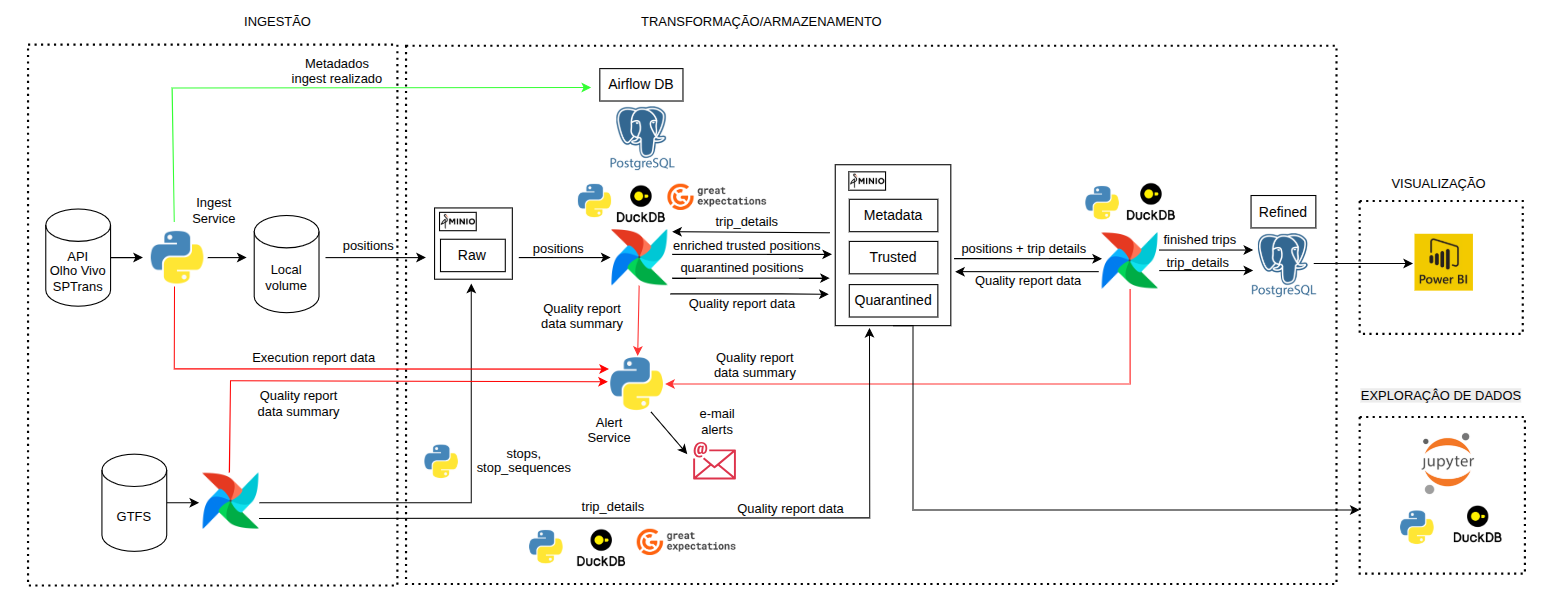
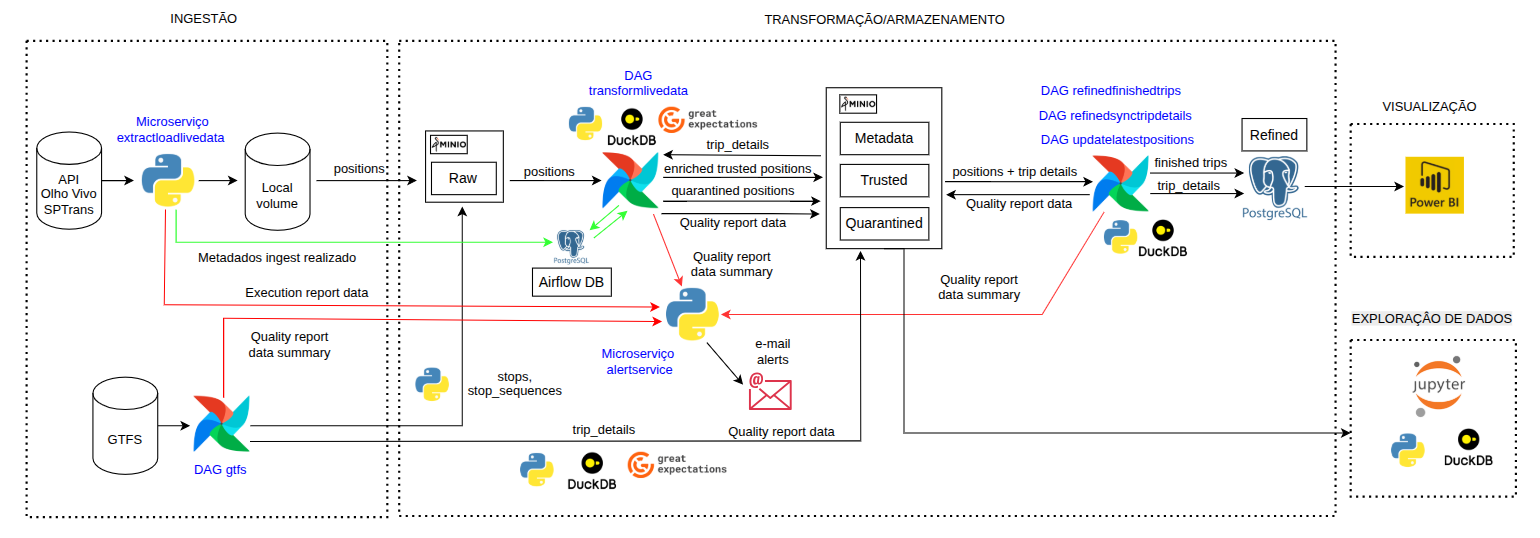
feat(refinedfinishedtrips): moved pipeline invokation to airlfow dataset emitted by transformlivedata

diff --git a/airflow/dags/refinedfinishedtrips-v6.py b/airflow/dags/refinedfinishedtrips-v6.py
@@ -1,13 +1,14 @@
-import logging
+from refinedfinishedtrips.extract_trips import (
+    extract_trips_for_all_Lines_and_vehicles,
+)
 import os
+import logging
 
-from transformlivedata.transformlivedata import load_transform_save_positions
-
-PIPELINE_NAME = "transformlivedata"
+PIPELINE_NAME = "refinedfinishedtrips"
 _IN_AIRFLOW = bool(os.getenv("AIRFLOW_HOME"))
 
 if _IN_AIRFLOW:
-    VERSION = 9
+    VERSION = 6
     DAG_NAME = f"{PIPELINE_NAME}-v{VERSION}"
 else:
     from logging.handlers import RotatingFileHandler
@@ -25,50 +26,41 @@ else:
 logger = logging.getLogger(__name__)
 
 
-def transform_positions(logical_date_string: str) -> None:
-    load_transform_save_positions(PIPELINE_NAME, logical_date_string)
+def extract_trips():
+    extract_trips_for_all_Lines_and_vehicles(PIPELINE_NAME)
 
 
 if _IN_AIRFLOW:
-    from airflow import DAG
+    from airflow import DAG, Dataset
     from airflow.operators.python import PythonOperator
     from airflow.utils.dates import days_ago
 
+    TRANSFORMED_POSITIONS_READY_SIGNAL = Dataset("sptrans://trusted/transformed_positions_ready")
     default_args = {
         "owner": "airflow",
         "depends_on_past": False,
-        "start_date": days_ago(20),
+        "start_date": days_ago(0),
         "max_active_runs": 1,
         "email_on_failure": False,
         "email_on_retry": False,
-        "retries": 0,
+        "retries": 3,
     }
-
-    def _transform_positions_task(**context):
-        logical_date = context["dag_run"].logical_date
-        logical_date_string = logical_date.isoformat()
-        transform_positions(logical_date_string)
 
     with DAG(
         DAG_NAME,
         default_args=default_args,
-        description="Load data from raw layer, process it, and store it in trusted layer",
-        schedule=None,
+        description="Calculate finished trips for all lines and vehicles",
+        schedule=[TRANSFORMED_POSITIONS_READY_SIGNAL],
         catchup=False,
-        max_active_runs=1,
         tags=["sptrans"],
     ) as dag:
-        transform_positions_task = PythonOperator(
-            task_id="transform_positions",
-            python_callable=_transform_positions_task,
+        extract_trips_task = PythonOperator(
+            task_id="extract_trips", python_callable=extract_trips
         )
-
-        transform_positions_task
+        extract_trips_task
 else:
     def main():
-        logical_date_string = "2026-04-27T15:14:00+00:00"
-        result = transform_positions(logical_date_string)
-        logger.info(f"Pipeline result: {result}")
+        extract_trips()
 
     if __name__ == "__main__":
         main()

diff --git a/dags-dev/refinedfinishedtrips-v6.py b/dags-dev/refinedfinishedtrips-v6.py
@@ -1,13 +1,14 @@
-import logging
+from refinedfinishedtrips.extract_trips import (
+    extract_trips_for_all_Lines_and_vehicles,
+)
 import os
+import logging
 
-from transformlivedata.transformlivedata import load_transform_save_positions
-
-PIPELINE_NAME = "transformlivedata"
+PIPELINE_NAME = "refinedfinishedtrips"
 _IN_AIRFLOW = bool(os.getenv("AIRFLOW_HOME"))
 
 if _IN_AIRFLOW:
-    VERSION = 9
+    VERSION = 6
     DAG_NAME = f"{PIPELINE_NAME}-v{VERSION}"
 else:
     from logging.handlers import RotatingFileHandler
@@ -25,50 +26,41 @@ else:
 logger = logging.getLogger(__name__)
 
 
-def transform_positions(logical_date_string: str) -> None:
-    load_transform_save_positions(PIPELINE_NAME, logical_date_string)
+def extract_trips():
+    extract_trips_for_all_Lines_and_vehicles(PIPELINE_NAME)
 
 
 if _IN_AIRFLOW:
-    from airflow import DAG
+    from airflow import DAG, Dataset
     from airflow.operators.python import PythonOperator
     from airflow.utils.dates import days_ago
 
+    TRANSFORMED_POSITIONS_READY_SIGNAL = Dataset("sptrans://trusted/transformed_positions_ready")
     default_args = {
         "owner": "airflow",
         "depends_on_past": False,
-        "start_date": days_ago(20),
+        "start_date": days_ago(0),
         "max_active_runs": 1,
         "email_on_failure": False,
         "email_on_retry": False,
-        "retries": 0,
+        "retries": 3,
     }
-
-    def _transform_positions_task(**context):
-        logical_date = context["dag_run"].logical_date
-        logical_date_string = logical_date.isoformat()
-        transform_positions(logical_date_string)
 
     with DAG(
         DAG_NAME,
         default_args=default_args,
-        description="Load data from raw layer, process it, and store it in trusted layer",
-        schedule=None,
+        description="Calculate finished trips for all lines and vehicles",
+        schedule=[TRANSFORMED_POSITIONS_READY_SIGNAL],
         catchup=False,
-        max_active_runs=1,
         tags=["sptrans"],
     ) as dag:
-        transform_positions_task = PythonOperator(
-            task_id="transform_positions",
-            python_callable=_transform_positions_task,
+        extract_trips_task = PythonOperator(
+            task_id="extract_trips", python_callable=extract_trips
         )
-
-        transform_positions_task
+        extract_trips_task
 else:
     def main():
-        logical_date_string = "2026-04-27T15:14:00+00:00"
-        result = transform_positions(logical_date_string)
-        logger.info(f"Pipeline result: {result}")
+        extract_trips()
 
     if __name__ == "__main__":
         main()

diff --git a/README.md b/README.md
@@ -37,6 +37,7 @@ Detalhes sobre as DAGS:
         - Verificação de qualidade da extração de viagens (zero trips e low trip count) baseada na janela efetiva de extração
         - Resultado da persistência com contagem de viagens adicionadas e de viagens que já haviam sido salvas anteriormente
         - Relatório de qualidade consolidado com status das três fases ao final de cada execução, persistido no bucket de metadata e enviado ao `alertservice` via webhook
+        - A partir da versão 6 desta pipeline, a DAG no Airflow deixa de depender de agendamento por cron e passa a ser disparada por um Airflow Dataset emitido pelo pipeline `transformlivedata`, o que maximiza o freshness das viagens finalizadas calculadas na camada refined, que passam a ser atualizadas logo após a publicação bem sucedida dos dados transformados, e simplifica a manutenção ao remover o acoplamento entre cron schedules upstream e downstream.
         ![Para mais informações:](./dags-dev/refinedfinishedtrips/README.md)
     - DAG refinedsynctripdetails: processo de carga dos detalhes de viagens canônicos da camada trusted para a camada refined, com adaptação leve para consumo da camada de visualização, especialmente em linhas circulares. Esta DAG é iniciada assim que a DAG gtfs é finalizada com sucesso através do uso do mecanismo datasets do Airflow. ![Para mais informações:](./dags-dev/refinedsynctripdetails/README.md)
     - DAG updatelatestpositions: processo de transformação para criação dos dados de última posição de cada ônibus na camada refined a partir dos dados da camada trusted. A partir da versão 4 deste pipeline, a DAG no Airflow deixa de depender de agendamento por cron e passa a ser disparada por um Airflow Dataset emitido pelo pipeline `transformlivedata`, o que maximiza o freshness da tabela `refined.latest_positions`, que passa a ser atualizada logo após a publicação bem sucedida dos dados transformados, e simplifica a manutenção ao remover o acoplamento entre cron schedules upstream e downstream. ![Para mais informações:](./dags-dev/updatelatestpositions/README.md)
